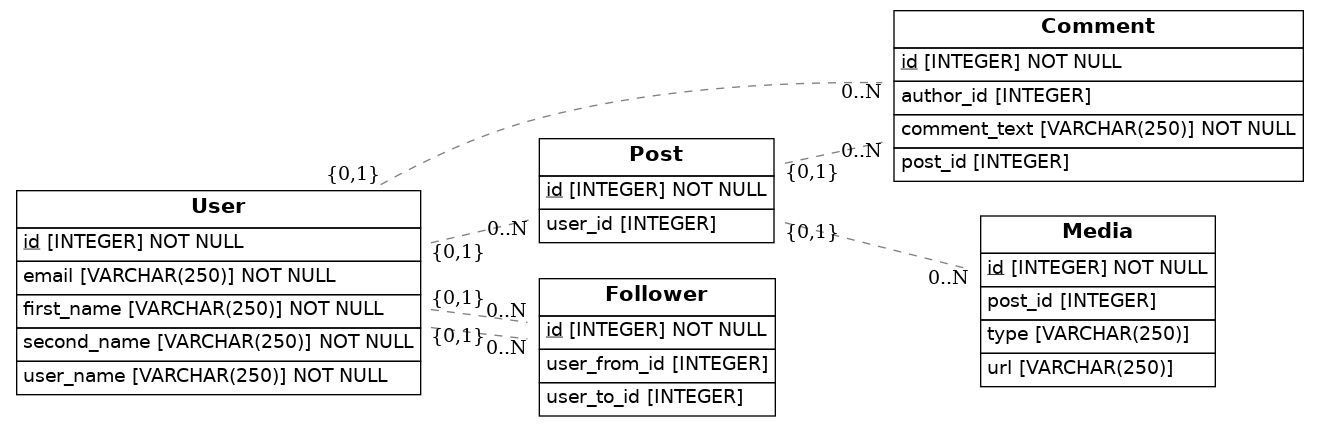
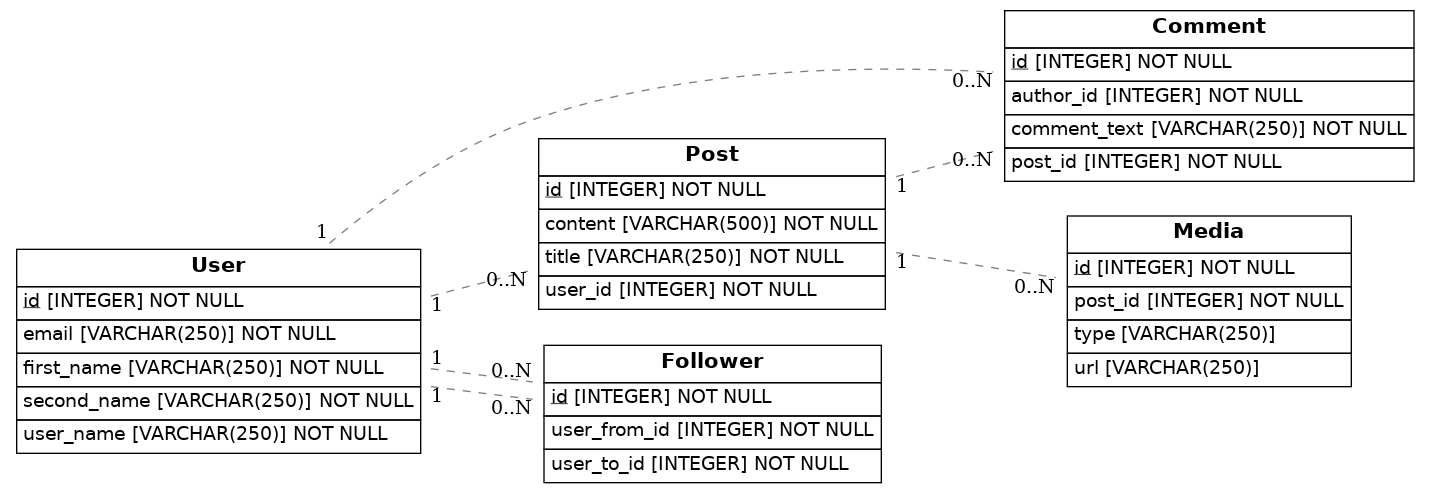
last changes

Changed region(s): [[0.0, 0.0, 0.9947, 1.0]]

diff --git a/src/models.py b/src/models.py
@@ -5,11 +5,7 @@ from sqlalchemy.orm import relationship, declarative_base
 from sqlalchemy import create_engine
 from eralchemy2 import render_er
 
-
-
 Base = declarative_base()
-
-
 
 class User(Base):
     __tablename__ = "User"
@@ -19,40 +15,49 @@ class User(Base):
     second_name =  Column(String(250), nullable=False)
     email = Column(String(250), nullable=False)
 
-  
 class Comment(Base):
     __tablename__ = "Comment"
     id = Column(Integer, primary_key=True)
     comment_text =  Column(String(250), nullable=False)
-    author_id = Column(Integer, ForeignKey("User.id"))
-    post_id = Column(Integer, ForeignKey("Post.id"))
-    comment_relationship = relationship("Post")
-
+    author_id = Column(Integer, ForeignKey("User.id"), nullable=False)
+    post_id = Column(Integer, ForeignKey("Post.id"), nullable=False)
+    author = relationship("User", foreign_keys=[author_id], back_populates="comments")
+    post = relationship("Post", foreign_keys=[post_id], back_populates="comments")
 
 class Post(Base):
     __tablename__ = "Post"
     id = Column(Integer, primary_key=True)
-    user_id = Column(Integer, ForeignKey("User.id"))
-    post_relationship = relationship("User")
-
+    title = Column(String(250), nullable=False)
+    content = Column(String(500), nullable=False)
+    user_id = Column(Integer, ForeignKey("User.id"), nullable=False)
+    user = relationship("User", back_populates="posts")
+    comments = relationship("Comment", back_populates="post")
 
 class Media(Base):
     __tablename__ = "Media"
     id = Column(Integer, primary_key=True)
     type = Column(String(250))
     url = Column(String(250))
-    post_id = Column(Integer, ForeignKey("Post.id"))
-    post_relationship = relationship("Post")
-
+    post_id = Column(Integer, ForeignKey("Post.id"), nullable=False)
+    post = relationship("Post", back_populates="media")
 
 class Follower(Base):
     __tablename__ = "Follower"
     id = Column(Integer, primary_key=True)
-    user_from_id = Column(Integer, ForeignKey("User.id"))
-    user_to_id = Column(Integer, ForeignKey("User.id"))
-    user_relationship_from = relationship("User", foreign_keys=[user_from_id])
-    user_relationship_to = relationship("User", foreign_keys=[user_to_id])
+    user_from_id = Column(Integer, ForeignKey("User.id"), nullable=False)
+    user_to_id = Column(Integer, ForeignKey("User.id"), nullable=False)
+    user_from = relationship("User", foreign_keys=[user_from_id], back_populates="followers_from")
+    user_to = relationship("User", foreign_keys=[user_to_id], back_populates="followers_to")
 
+    @classmethod
+    def follow(cls, session, user_from_id, user_to_id):
+        follower = cls(user_from_id=user_from_id, user_to_id=user_to_id)
+        session.add(follower)
+        session.commit()
 
+    @classmethod
+    def unfollow(cls, session, user_from_id, user_to_id):
+        session.query(cls).filter_by(user_from_id=user_from_id, user_to_id=user_to_id).delete()
+        session.commit()
 
 render_er(Base, "diagram.png")
